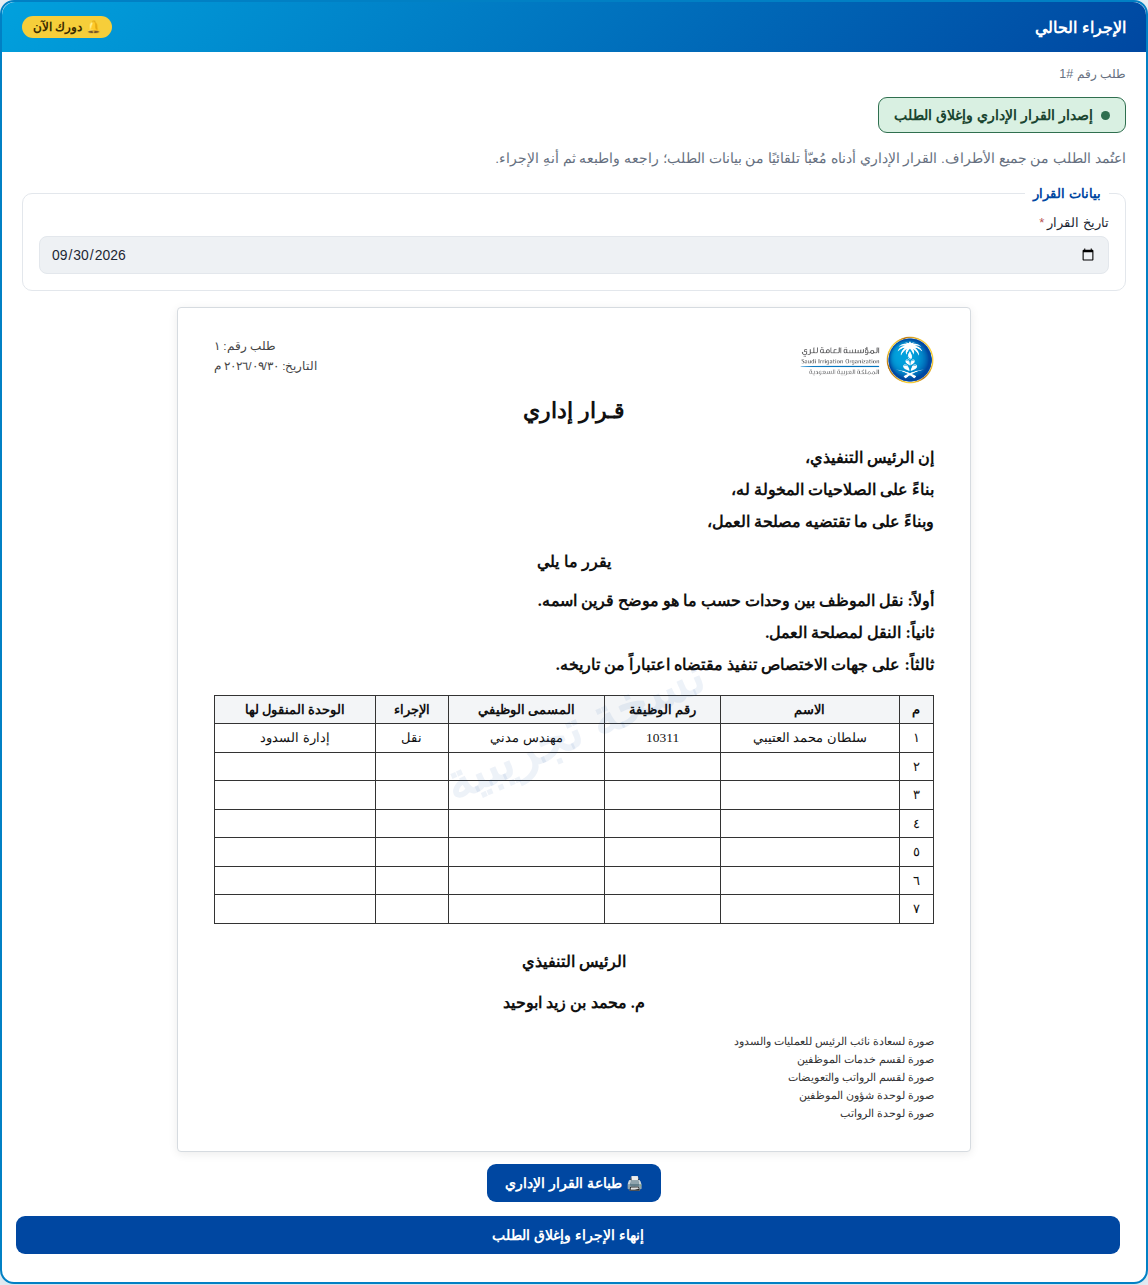
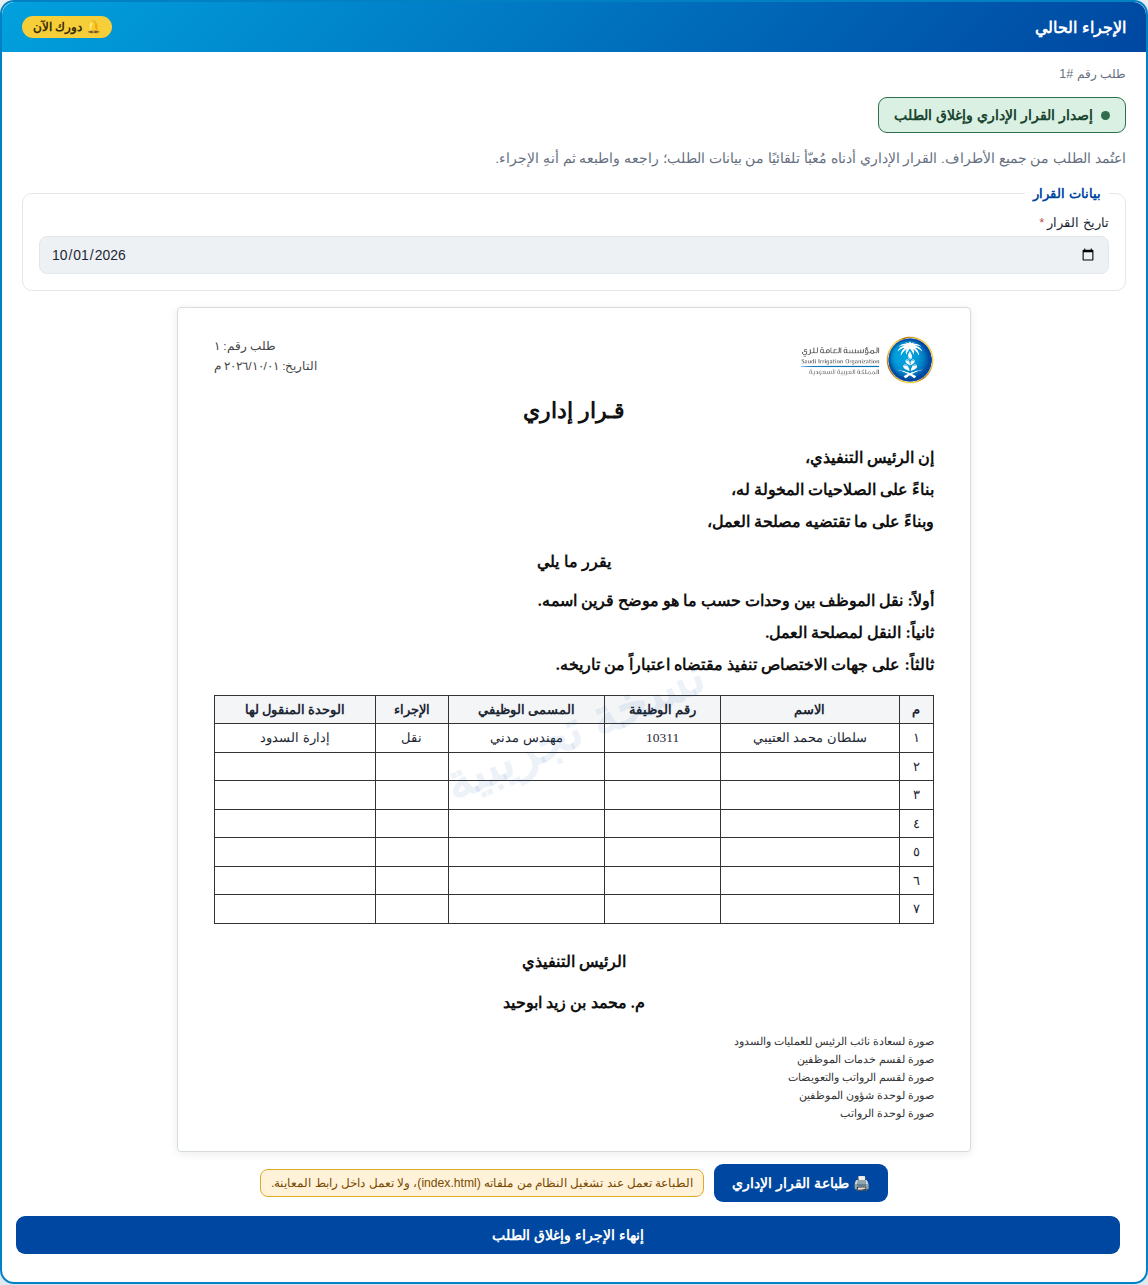
إضافة دوري مدير قسم الموظف الحالي ومدير قسم الموظف الجديد
- بعد تقديم الطلب يمر على مدير القسم الحالي و/أو الجديد حسب صفة مقدّم الطلب
- الرفض يتطلب ملاحظة ويُرسل مباشرة لتخطيط الموارد البشرية
- عند رفض المدير: مسؤول التخطيط المكلَّف يُشعر مقدم الطلب وينهي الطلب

Claude-Session: https://claude.ai/code/session_011ScrgTePbEPRnczQ9B2eJd

Changed region(s): [[0.2134, 0.9027, 0.7927, 0.9339]]

diff --git a/assets/js/config/form-schemas.js b/assets/js/config/form-schemas.js
@@ -66,6 +66,36 @@ function rejectionReviewSchema(actorName, nextIfApprove){
   };
 }
 
+// ---------- موافقة مديري الأقسام بعد تقديم الطلب مباشرة ----------
+// طلب الموظف نفسه:            مدير القسم الحالي ← مدير القسم الجديد
+// مدير ينقل موظفًا من قسمه:     مدير القسم الجديد فقط
+// مدير ينقل موظفًا إلى قسمه:    مدير القسم الحالي فقط
+// ثم يُسند رئيس قسم التخطيط الطلب لمسؤول تخطيط يُكمل الدراسة، أو يُشعر مقدم الطلب بالرفض وينهيه.
+const afterSubmit = d =>
+  d.applicantCapacity === CAPACITY.fromMine ? "new_mgr" : "cur_mgr";
+const afterCurrentManager = d =>
+  isSelfRequest(d) ? "new_mgr" : "head_review";
+const deptManagersRejected = d => Object.values(d.mgrDecisions || {}).some(x => x.decision === "رفض");
+
+function deptManagerSchema(actorName, nextIfApprove){
+  const commentKey = "mgrComment_" + actorName;
+  const record = decision => (d, comment) => {
+    d.mgrDecisions = { ...(d.mgrDecisions || {}), [actorName]: { decision, comment } };
+  };
+  return {
+    phase:"teal", actor: actorName,
+    title: "موافقة " + actorName,
+    desc: "راجع نموذج طلب النقل في ملف المعاملة أدناه، ثم وافق على الطلب أو ارفضه. يُرسل قرارك إلى تخطيط الموارد البشرية.",
+    sections: [{ title:"القرار", fields:[
+      {key:commentKey, label:"ملاحظات (إلزامي عند الرفض)", type:"textarea"}
+    ]}],
+    decisions: [
+      {label:"الموافقة على الطلب", kind:"primary", route: nextIfApprove, apply: record("موافقة")},
+      {label:"رفض الطلب", next:"head_review", kind:"reject", requireComment:true, commentKey, apply: record("رفض")}
+    ]
+  };
+}
+
 // رفض الموظف المطلوب نقله: الإجراء الوحيد لمسؤول التخطيط هو إرسال الطلب لتسلسل الموافقات لإعلامهم،
 // وخيارهم الوحيد "قبول الرفض"، وبعد قبول الجميع يُغلق الطلب بالرفض
 const employeeRefused = d => Object.values(d.employeeResponses || {}).some(v => v.startsWith("لا"));
@@ -126,19 +156,37 @@ const FORM_SCHEMAS = {
         {key:"expectedTasks", label:"المهام المتوقّع أن يقوم بها الموظف بالجهة الجديدة", type:"textarea", required:true}
       ]}
     ],
-    submitLabel:"تقديم الطلب", next:"head_review"
+    submitLabel:"تقديم الطلب", route: afterSubmit
   },
+
+  cur_mgr: deptManagerSchema(ROLE.curMgr, afterCurrentManager),
+  new_mgr: deptManagerSchema(ROLE.newMgr, () => "head_review"),
 
   head_review: {
     phase:"gray", actor:ROLE.head, title:"استقبال الطلب وإسناده",
-    desc:"يستقبل رئيس قسم تخطيط الموارد البشرية طلب النقل ويسنده إلى أحد مسؤولي التخطيط. يستطيع المسؤول المكلَّف وحده إكمال إجراءات الطلب، ويطّلع عليه بقية المسؤولين دون اتخاذ أي إجراء.",
+    desc:"يستقبل رئيس قسم تخطيط الموارد البشرية طلب النقل بعد بتّ مدير القسم، ويسنده إلى أحد مسؤولي التخطيط. يستطيع المسؤول المكلَّف وحده إكمال إجراءات الطلب، ويطّلع عليه بقية المسؤولين دون اتخاذ أي إجراء.",
+    showManagerDecisions: true,
     sections:[
       { title:"إسناد الطلب", fields:[
         {key:"assignedPlanner", label:"مسؤول تخطيط الموارد البشرية المكلَّف", type:"select", options:PLANNERS, required:true}
       ]}
     ],
-    submitLabel:"إسناد الطلب", next:"study",
+    submitLabel:"إسناد الطلب",
+    route: d => deptManagersRejected(d) ? "mgr_rejected" : "study",
     historyNote: d => "المسؤول المكلَّف: " + d.assignedPlanner
+  },
+
+  // رفض مدير القسم: يُشعر مسؤول التخطيط مقدم الطلب وينهي الطلب
+  mgr_rejected: {
+    phase:"coral", actor:ROLE.planner, title:"رفض مدير القسم للطلب",
+    desc:"رفض مدير القسم طلب النقل. أشعِر مقدم الطلب بالرفض وأنهِ الطلب.",
+    showManagerDecisions: true,
+    sections:[],
+    decisions:[
+      {label:"إشعار مقدم الطلب وإنهاء الطلب", next:"rejected", kind:"reject",
+        reasonFn: d => Object.entries(d.mgrDecisions || {}).filter(([, x]) => x.decision === "رفض")
+          .map(([who, x]) => `رفض ${who} الطلب: ${x.comment}`).join(" — ")}
+    ]
   },
 
   study: {

diff --git a/assets/js/config/roles.js b/assets/js/config/roles.js
@@ -1,28 +1,22 @@
 // ============================================================
 // 1) الأدوار والمراحل
 // ============================================================
-const ROLES = [
-  "مقدم الطلب",
-  "رئيس قسم تخطيط الموارد البشرية",
-  "مسؤول تخطيط الموارد البشرية",
-  "الموظف المطلوب نقله",
-  "نائب مدير تخطيط الموارد البشرية",
-  "مدير تخطيط الموارد البشرية",
-  "مدير الموارد البشرية",
-  "رئيس المؤسسة"
-];
-
 // اختصارات للأدوار التي يعتمد عليها منطق النظام
 const ROLE = {
-  applicant: ROLES[0],
-  head:      ROLES[1],
-  planner:   ROLES[2],
-  employee:  ROLES[3],
-  deputy:    ROLES[4],
-  planMgr:   ROLES[5],
-  hrMgr:     ROLES[6],
-  president: ROLES[7]
+  applicant: "مقدم الطلب",
+  curMgr:    "مدير قسم الموظف الحالي",
+  newMgr:    "مدير قسم الموظف الجديد",
+  head:      "رئيس قسم تخطيط الموارد البشرية",
+  planner:   "مسؤول تخطيط الموارد البشرية",
+  employee:  "الموظف المطلوب نقله",
+  deputy:    "نائب مدير تخطيط الموارد البشرية",
+  planMgr:   "مدير تخطيط الموارد البشرية",
+  hrMgr:     "مدير الموارد البشرية",
+  president: "رئيس المؤسسة"
 };
+
+// ترتيب أزرار الأدوار في أعلى الصفحة
+const ROLES = Object.values(ROLE);
 
 // موظفو قسم تخطيط الموارد البشرية (يُسند إليهم رئيس القسم الطلبات)
 const PLANNERS = [

diff --git a/assets/js/ui/render.js b/assets/js/ui/render.js
@@ -192,6 +192,16 @@ function renderEmployeeResponses(r){
   }).join("")}</fieldset>`;
 }
 
+// قرار مدير قسم الموظف الحالي/الجديد
+function renderManagerDecisions(r){
+  const entries = Object.entries(r.data.mgrDecisions || {});
+  if (!entries.length) return "";
+  return `<fieldset><legend>قرار مدير القسم</legend>${entries.map(([who, x]) => {
+    const cls = x.decision === "رفض" ? "resp-no" : "resp-yes";
+    return `<div class="kv"><b>${esc(who)}:</b> <span class="${cls}">${esc(x.decision)}</span>${x.comment ? ` — ${esc(x.comment)}` : ""}</div>`;
+  }).join("")}</fieldset>`;
+}
+
 function renderStepExtras(r, st){
   let html = "";
   if (r.currentState === "draft" && r.returnReason)
@@ -200,6 +210,7 @@ function renderStepExtras(r, st){
     html += `<div class="notice amber"><b>سبب الإرجاع:</b> ${esc(r.returnReason)}</div>`;
   if (st.showRecommendation)
     html += `<div class="notice coral"><b>توصية مسؤول التخطيط (سبب الرفض):</b> ${esc(r.data.studyRecommendation || "—")}</div>`;
+  if (st.showManagerDecisions) html += renderManagerDecisions(r);
   if (st.showEmployeeResponses) html += renderEmployeeResponses(r);
   if (st.custom === "employee") html += renderEmployeeStep(r);
   return html;

diff --git a/assets/js/core/workflow.js b/assets/js/core/workflow.js
@@ -25,8 +25,9 @@ function moveTo(r, schema, next, actionLabel, note){
 
 // عند (إعادة) تقديم الطلب تبدأ الموافقات من جديد
 function resetForResubmission(r){
-  Object.keys(r.data).forEach(k => { if (/^(comment_|rejComment_)/.test(k)) delete r.data[k]; });
+  Object.keys(r.data).forEach(k => { if (/^(comment_|rejComment_|mgrComment_)/.test(k)) delete r.data[k]; });
   delete r.data.employeeResponses;
+  delete r.data.mgrDecisions;
   r.returnReason = "";
 }
 
@@ -66,6 +67,7 @@ function submitDecision(reqId, idx){
     errorMsg = "الرجاء كتابة ملاحظة توضّح سبب هذا القرار."; render(); return;
   }
   errorMsg = "";
+  if (decision.apply) decision.apply(r.data, comment);
   const next = decision.route ? decision.route(r.data) : decision.next;
   if (next === "rejected"){
     r.lastReason = decision.reasonFn ? decision.reasonFn(r.data) : `${decision.reason}${comment ? ": " + comment : ""}`;
